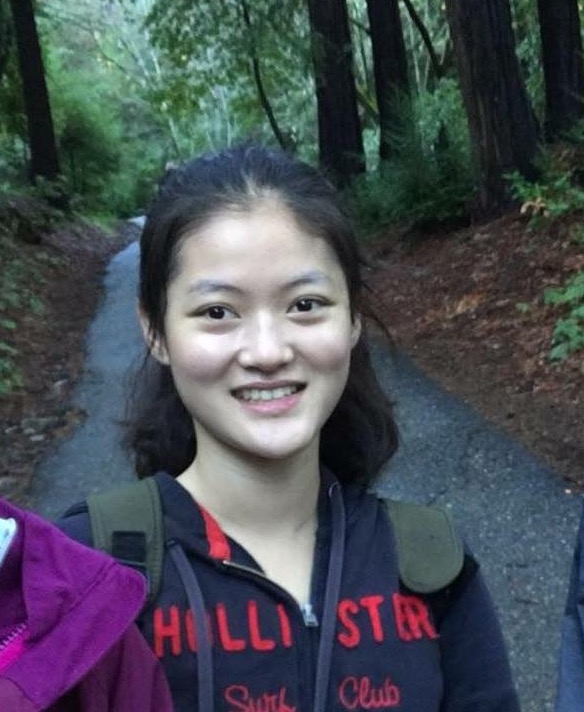
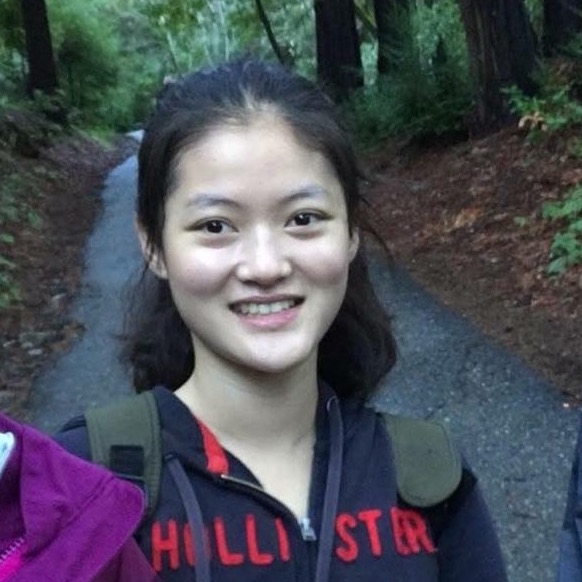
Julia edited 5 officer bios and pics

diff --git a/public/javascripts/app.js b/public/javascripts/app.js
@@ -15,9 +15,9 @@ function($scope){
 	                   {name: "Pallavi Narayanan", position: "Outreach Director", image: "", bio: ""},
 	                   {name: "Vicky Min", position: "Outreach Director", image: "", bio: ""},
 	                   {name: "Rucha Patki", position: "Secretary/Treasurer", image: "public/images/rucha-patki.jpg", bio: "Hi, I'm Rucha and I'll be WIT's Secretary and Treasurer this year! I'll be managing the clubs activities and expenses. I've been with this club since its first year, and I love how it encourages more women to be involved in the field of computer science! Outside of this club, my hobbies include springboard and platform diving, robotics, and drawing."},
-	                   {name: "Julia Liu", position: "Public Relations", image: "public/images/julia-liu.jpg", bio: ""},
+	                   {name: "Julia Liu", position: "Public Relations", image: "public/images/julia-liu.JPG", bio: ""},
 	                   {name: "Christina Shao", position: "Student Mentor", image: "public/images/christina-shao.jpg", bio: "I’m a sophomore at Tino and Student Mentor of the Women in Tech club. During club meetings, I help and support members of our club. Motivated by my passion for computer science and love for programming, I hope to spark an interest for computer science in girls and close the gender gap. Outside of school, I enjoy playing basketball and badminton, hiking, volunteering, sketching animals, and reading novels. But most of all, I love having fun, spending time with my friends and family, and helping others."},
-	                   {name: "Nithya Attaluri", position: "Student Mentor", image: "public/images/nithya-attaluri.jpg", bio: "Hey! My name is Nithya Attaluri, and I will be one of your Student Mentors for 2016-2017 academic year! With my friend and co-officer Christina Shao, I will be designing the lesson plans for our Introduction to Programming track. If you have any interesting activity ideas, or are just curious about learning a specific topic in computer science, feel free to talk to me! I’d love your input! I love to code, whether the language is Swift, Java, or Python. When I’m not coding, however, I can be seen rereading the Harry Potter novels, listening (read: loudly singing along) to music on Pandora, or eating Trader Joe’s cookie butter out of the jar. Typically, though, I will be doing all three at once. I am also a brown belt in Taekwondo, a form of Korean martial arts.  I’m extremely excited to begin my sophomore year and my Student Mentor position this August! I’m looking forward to meeting all of the new WIT members this year, and I hope you all are able to have as much fun in WIT as I did!"}
+	                   {name: "Nithya Attaluri", position: "Student Mentor", image: "public/images/nithya-attaluri.JPG", bio: "Hey! My name is Nithya Attaluri, and I will be one of your Student Mentors for 2016-2017 academic year! With my friend and co-officer Christina Shao, I will be designing the lesson plans for our Introduction to Programming track. If you have any interesting activity ideas, or are just curious about learning a specific topic in computer science, feel free to talk to me! I’d love your input! I love to code, whether the language is Swift, Java, or Python. When I’m not coding, however, I can be seen rereading the Harry Potter novels, listening (read: loudly singing along) to music on Pandora, or eating Trader Joe’s cookie butter out of the jar. Typically, though, I will be doing all three at once. I am also a brown belt in Taekwondo, a form of Korean martial arts.  I’m extremely excited to begin my sophomore year and my Student Mentor position this August! I’m looking forward to meeting all of the new WIT members this year, and I hope you all are able to have as much fun in WIT as I did!"}
 	                   ];
 }]);
 
